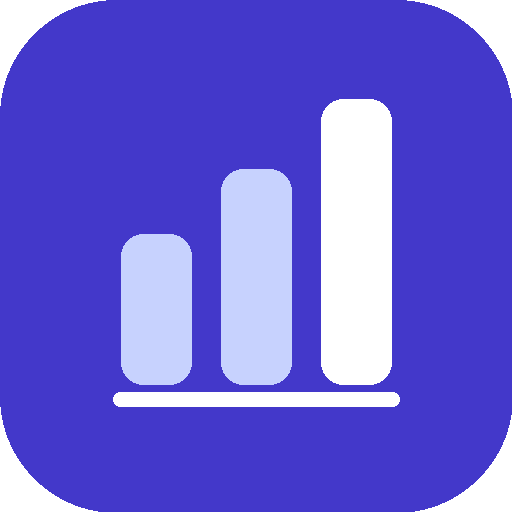
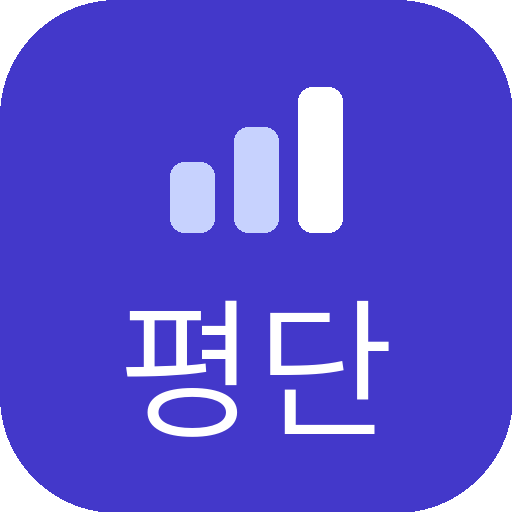
Add files via upload

Changed region(s): [[0.2188, 0.1562, 0.7812, 0.875]]

diff --git a/README.md b/README.md
@@ -1,12 +1,12 @@
-# 평단·손익 계산기 v1.0
+# 평단·손익 계산기 v1.1
 
 분할매수·매도·수익률을 **수수료·세금까지 반영**해 계산하는 모바일 웹앱.
 링크: https://heminism00-blip.github.io/pyeongdan-calc/
 
 ---
 
-## v1.0 요약
-모바일 홈 화면 앱으로 쓸 수 있게 **이름·아이콘·매니페스트**를 붙이고, **버전 이력 관리**를 시작한 첫 패키지 버전입니다.
+## v1.1 요약
+아이콘에 **"평단" 글자**를 넣어 홈 화면에서 바로 식별되게 했습니다. (v1.0: 이름·아이콘·매니페스트 + 버전 이력 관리 시작)
 
 ## 주요 기능
 - **매수** — 보유분 + **분할 추가매수(여러 번)** → 최종 평균단가 자동 합산

diff --git a/CHANGELOG.md b/CHANGELOG.md
@@ -5,6 +5,11 @@
 
 ---
 
+## v1.1 — 2026-09-18
+- **요청:** 홈 화면에서 어떤 앱인지 바로 보이게(이름 노출)
+- **변경 파일:** `icon.png`, `README.md`, `CHANGELOG.md`
+- **변경 내용:** 아이콘 안에 **"평단"** 글자 삽입(막대 + 텍스트) → 홈 화면 라벨이 안 떠도 아이콘만으로 식별 가능
+
 ## v1.0 — 2026-09-18
 - **요청:** 모바일 홈 화면 앱으로 쓰게 이름·아이콘 붙이기 + GitHub로 버전 히스토리 관리 시작
 - **변경 파일:** `index.html`, `manifest.json`(신규), `icon.png`(신규), `CHANGELOG.md`(신규)
